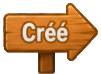
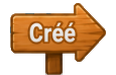
Adjusting 33

Changed region(s): [[0.0297, 0.027, 0.9802, 1.0], [0.1782, 0.2703, 0.7129, 0.5946]]

diff --git a/src/pages/currentInterventionPage/CurrentInterventionPage.scss b/src/pages/currentInterventionPage/CurrentInterventionPage.scss
@@ -3788,3 +3788,71 @@
     filter: grayscale(1) brightness(1.12) contrast(.82) !important;
   }
 }
+
+
+/* v113 — final snow board sizing/opacity + clearer OFF bulb details */
+.current-intervention-page {
+  .snow-trail-icon__wood-board,
+  .snow-trail-icon--active .snow-trail-icon__wood-board {
+    width: 59px !important;
+    height: auto !important;
+    right: -1px !important;
+    bottom: 0 !important;
+    opacity: 1 !important;
+    filter: none !important;
+  }
+
+  /* OFF is pale grey, but NEVER transparent. */
+  .snow-trail-icon--off .snow-trail-icon__wood-board {
+    opacity: 1 !important;
+    filter: grayscale(1) brightness(1.32) contrast(.68) !important;
+  }
+}
+
+
+/* v114 — Créé board same visual height as À mon nom; preserve v113 opacity fix. */
+.current-intervention-page {
+  .snow-trail-icon__wood-board {
+    object-fit: contain !important;
+    opacity: 1 !important;
+  }
+
+  .snow-trail-icon--active .snow-trail-icon__wood-board {
+    opacity: 1 !important;
+    filter: none !important;
+  }
+
+  .snow-trail-icon--off .snow-trail-icon__wood-board {
+    opacity: 1 !important;
+  }
+
+  .snow-trail-icon--created .snow-trail-icon__wood-board,
+  .snow-trail-icon--right .snow-trail-icon__wood-board {
+    height: 31px !important;
+    width: auto !important;
+  }
+}
+
+
+/* v115 — both Snow wooden boards share one canvas, size and position. */
+.current-intervention-page {
+  .snow-trail-icon--left .snow-trail-icon__wood-board,
+  .snow-trail-icon--right .snow-trail-icon__wood-board,
+  .snow-trail-icon--active .snow-trail-icon__wood-board,
+  .snow-trail-icon--off .snow-trail-icon__wood-board {
+    width: 59px !important;
+    height: auto !important;
+    right: -1px !important;
+    bottom: 0 !important;
+    opacity: 1 !important;
+    object-fit: contain !important;
+  }
+
+  .snow-trail-icon--active .snow-trail-icon__wood-board {
+    filter: none !important;
+  }
+
+  .snow-trail-icon--off .snow-trail-icon__wood-board {
+    filter: grayscale(1) brightness(1.32) contrast(.68) !important;
+  }
+}

diff --git a/src/assets/svg/Light bulb off.svg.tsx b/src/assets/svg/Light bulb off.svg.tsx
@@ -22,7 +22,7 @@ const LightBulbOffIcon = forwardRef<SVGSVGElement, LightBulbOffIconProps>(
       <path
         d=" M256 105 C145 105 82 180 108 280 C125 350 180 375 185 430 C187 455 210 468 256 468 C302 468 325 455 327 430 C332 375 387 350 404 280 C430 180 367 105 256 105Z"
         fill="#F1F3F5"
-        stroke="#B8BEC5"
+        stroke="#AEB5BD"
         strokeWidth="18"
         strokeLinejoin="round"
       />
@@ -34,28 +34,28 @@ const LightBulbOffIcon = forwardRef<SVGSVGElement, LightBulbOffIconProps>(
       />
       <path
         d=" M220 290 C205 265 185 275 190 305 C195 330 225 325 240 290 C255 255 270 255 282 290 C295 325 320 330 322 300 C324 275 300 265 285 290"
-        stroke="#C9CED4"
+        stroke="#AEB5BD"
         strokeWidth="10"
         fill="none"
         strokeLinecap="round"
       />
       <path
         d="M238 300V462M278 300V462"
-        stroke="#C9CED4"
+        stroke="#AEB5BD"
         strokeWidth="10"
         strokeLinecap="round"
       />
       <path
         d=" M195 455 H317 C325 455 330 465 330 480 L322 535 C318 555 295 570 256 570 C217 570 194 555 190 535 L182 480 C182 465 187 455 195 455Z"
-        fill="#E7EAED"
-        stroke="#B8BEC5"
-        strokeWidth="12"
+        fill="#D5DADE"
+        stroke="#9FA8B1"
+        strokeWidth="13"
       />
       <path
         d=" M205 470 C202 500 210 530 238 550 C220 545 210 530 207 510 L198 485 C196 475 200 470 205 470Z"
         fill="#EEEEEE"
       />
-      <g stroke="#CCD2D7" strokeWidth="10" strokeLinecap="round">
+      <g stroke="#9FA8B1" strokeWidth="11" strokeLinecap="round">
         <path d="M188 480H324" />
         <path d="M190 505H322" />
         <path d="M194 530H318" />
